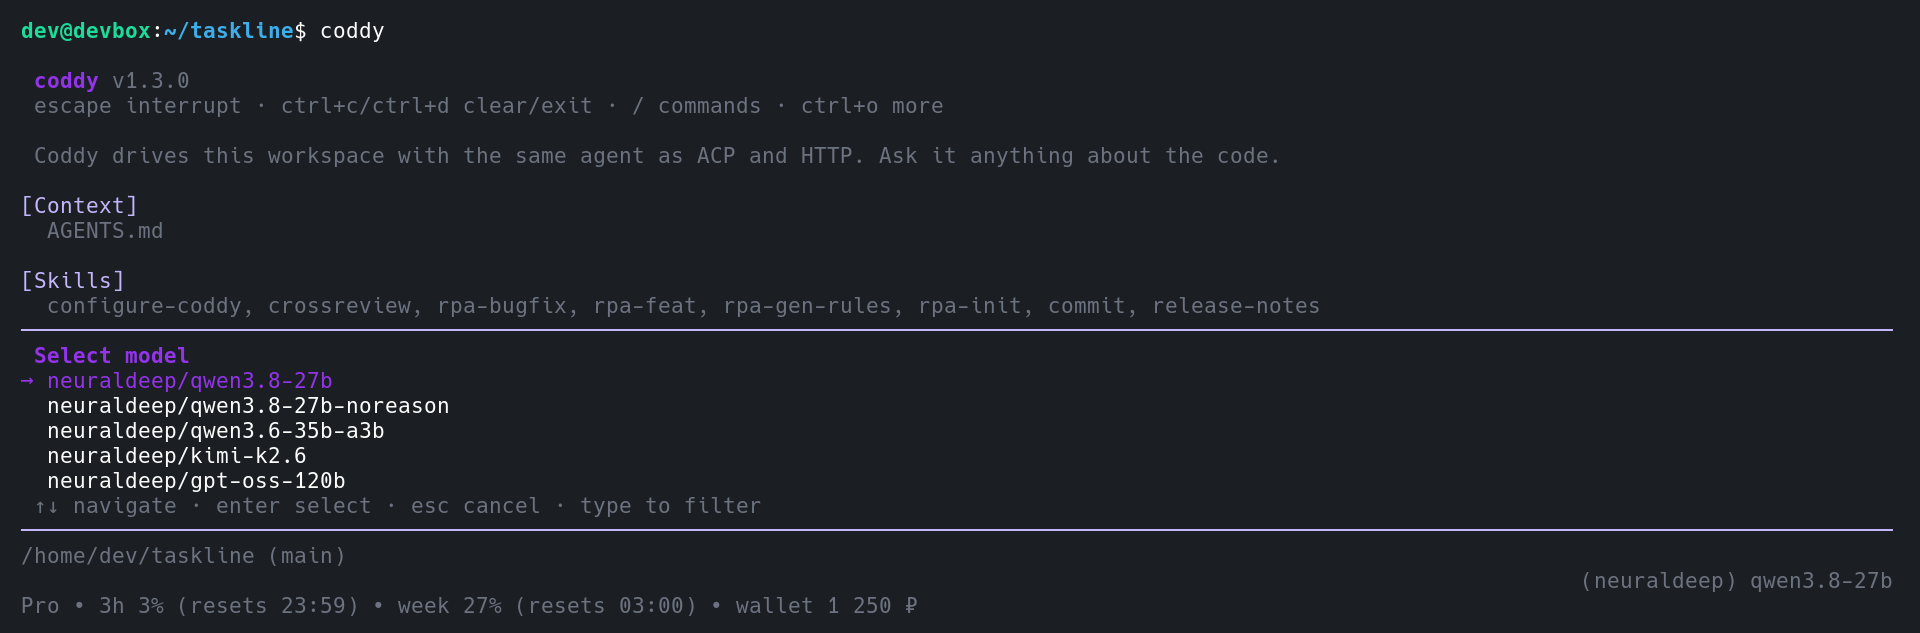
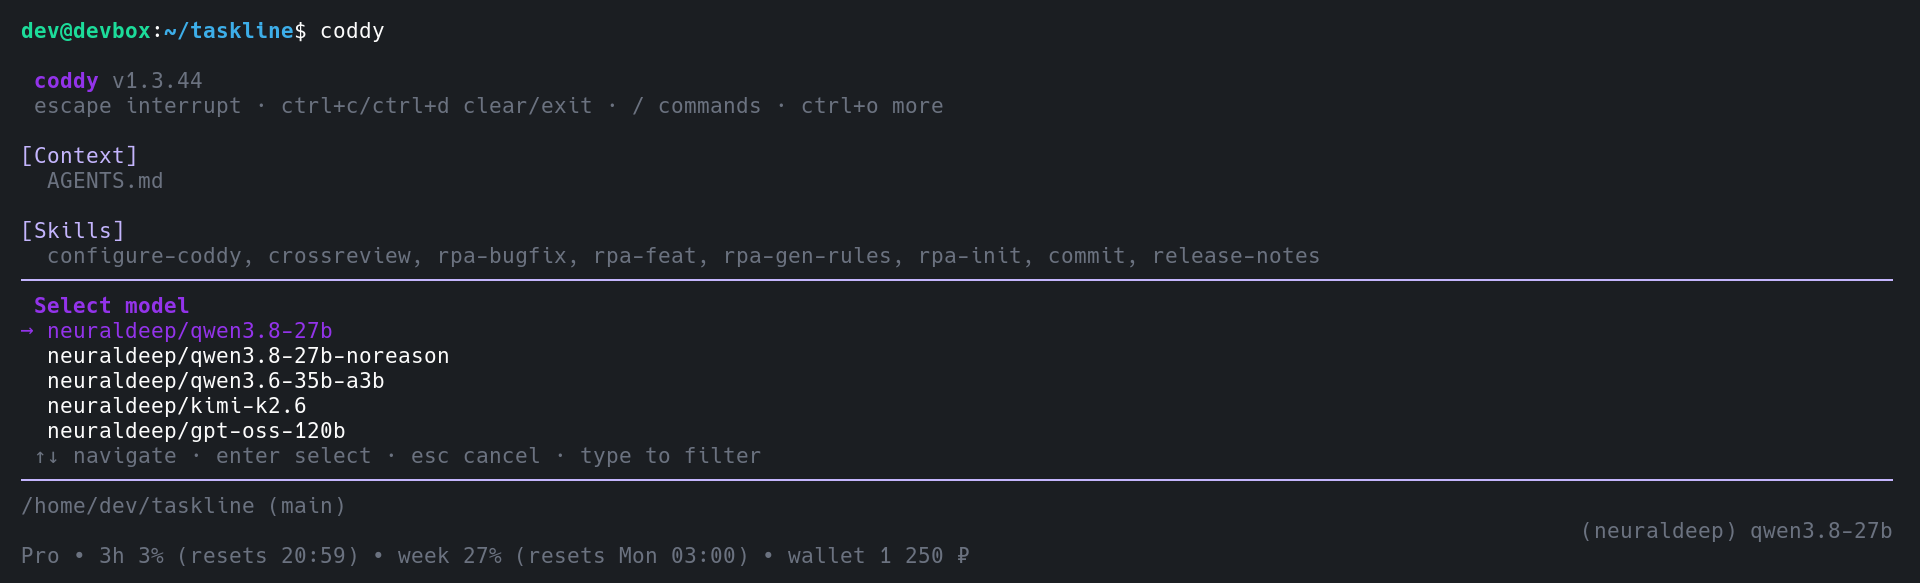
docs: retake the console photos without the removed header line
The three Konsole photos of the console (the start, the model selector, a
finished turn) still showed the dim line about ACP and HTTP; they are taken
again on this build. A fourth one shows the first start of a fresh install
with its header pointing at /login. The README names /login as the quickest
way to a first model.

diff --git a/docs/ru/surfaces/console.md b/docs/ru/surfaces/console.md
@@ -26,6 +26,10 @@ continue: coddy cli --session-id sess_1a2b3c4d  (or: coddy -c)
 
 После свежей установки у Coddy нет провайдера моделей, с которым можно работать. Либо `config.yaml` ещё нет (Homebrew, пакеты Linux, бинарник, распакованный вручную), либо `install.sh` записал пример, где строка `openai` берёт ключ из `OPENAI_API_KEY`. Пока ни одна строка провайдера не может ответить (ни у одной нет ключа в `api_key`, `api_key_command` или своей переменной `NAME_API_KEY`, сохранённого входа, агента `acp` или собственного OpenAI-совместимого `api_base`), шапка сообщает об этом цветом предупреждения и указывает на `/login`. Та же строка появляется после хода, который не удался по этой причине.
 
+![Первый запуск на свежей установке - шапка указывает на /login](../../assets/screenshot-console-login-hint.png)
+
+*Первый запуск без `config.yaml` - строка цветом предупреждения указывает на `/login`, а футер не называет модель.*
+
 `/login` выполняет вход `coddy providers login`, не выходя из консоли.
 
 | Команда | Куда входит | Как |
@@ -377,7 +381,7 @@ coddy hooks untrust <file> [--cwd DIR]
 
 Наборов скриншотов два, и они отвечают на разные вопросы.
 
-`docs/assets/screenshot-console-*.png` снимают работающую консоль в настоящем окне **Konsole** (ширина 1920 пикселей, обрезка по занятым строкам). Это строка запуска и шапка с `[Context]` / `[Skills]` (`screenshot-console-start.png`), селектор моделей по `ctrl+l` (`screenshot-console-models.png`) и завершённый ход с блоком инструмента, блоком рассуждений и счётчиками футера (`screenshot-console-chat.png`). Используйте их в README и на сайте, потому что они показывают то, что пользователь действительно видит в эмуляторе терминала. Они сняты на чистом `CODDY_HOME` с двумя собственными скилами и небольшим проектом с `AGENTS.md`, поэтому шапка перечисляет то, что видит новый пользователь.
+`docs/assets/screenshot-console-*.png` снимают работающую консоль в настоящем окне **Konsole** (ширина 1920 пикселей, обрезка по занятым строкам). Это строка запуска и шапка с `[Context]` / `[Skills]` (`screenshot-console-start.png`), селектор моделей по `ctrl+l` (`screenshot-console-models.png`) и завершённый ход с блоком инструмента, блоком рассуждений и счётчиками футера (`screenshot-console-chat.png`), а также первый запуск свежей установки, где шапка указывает на `/login` (`screenshot-console-login-hint.png`, на пустом `CODDY_HOME`). Используйте их в README и на сайте, потому что они показывают то, что пользователь действительно видит в эмуляторе терминала. Они сняты на чистом `CODDY_HOME` с двумя собственными скилами и небольшим проектом с `AGENTS.md`, поэтому шапка перечисляет то, что видит новый пользователь.
 
 В `docs/assets/cli-tui/` лежат PNG, отрисованные из буфера pyte скриптами `examples/cli/capture_*.py`, по одному на функцию; каждый управляет общим e2e-драйвером с моделью-заглушкой по сценарию. Это эталоны цветов и раскладки ячеек, а не рекламные картинки; перегенерируйте те, у которых изменилось оформление. `examples/cli/capture.py` отрисовывает базовые состояния (запуск, меню слэш-команд, селектор моделей, ход) для сравнения на вашей машине; ни одно из них не коммитится. Четыре состояния использования (`09-usage-footer`, `10-usage-warning`, `12-usage-resuming`, `11-usage-blocked`) дают `examples/cli/capture_usage.py`, который поднимает поддельный хаб `GET /limits` за `CODDY_NEURALDEEP_BASE_URL` и один chat completion, отвечающий для ожидающего хода `429` со сбросом далеко впереди, поэтому настоящий ключ не нужен; хранятся только их PNG. `13-subagent-delegation` так же получается из `examples/cli/capture_subagent.py` - локальный OpenAI-совместимый эндпоинт по сценарию выдаёт вызов `load_skill`, вызов `spawn_agent`, отчёт дочернего агента и ответ родителя, поэтому для снимка не нужны ни провайдер, ни ключ. `18-mention-list` получается из `examples/cli/capture_mentions.py`, который раскладывает файлы этого репозитория пустыми и под git во временной папке с временным домашним каталогом и набирает `@ment` при провайдере, которому не задаётся ни одного вопроса. `session-settings-console-footer-dark` получается из `examples/cli/capture_settings.py` - `/permissions bypass`, затем цепочка `/model --once /reasoning --count=3` с временным домашним каталогом, который подменяет и `HOME`, поэтому шапка перечисляет только встроенные скилы. `login-signed-in-dark-1280` получается из `examples/cli/capture_login.py` - `/login` без аргументов на пустом `CODDY_HOME`, где хаб и базовый адрес API указывают на локальную заглушку, которая отвечает на вход по коду устройства и отдаёт аккаунт, модели тарифа и расход, поэтому не нужны ни хаб, ни ключ.
 

diff --git a/docs/assets/INDEX.md b/docs/assets/INDEX.md
@@ -29,7 +29,7 @@ Screenshots taken as evidence for a pull request do not belong here. Attach them
 Generated by `make docs`. "Used by" lists the files that reference the asset.
 
 <!-- docsgen:assets:start -->
-267 files, 58.0 MB in total.
+268 files, 58.1 MB in total.
 
 ### docs/assets
 
@@ -69,9 +69,10 @@ Generated by `make docs`. "Used by" lists the files that reference the asset.
 | `reasoning-levels-dark-1280.png` | 177 KB | docs/ru/surfaces/web-ui.md, docs/surfaces/web-ui.md |
 | `ref-navbar-narrow-tooltips-accent.png` | 16 KB | DESIGN.md |
 | `scheduler-tool-cards-dark-1280.png` | 197 KB | docs/ru/surfaces/web-ui.md, docs/surfaces/web-ui.md |
-| `screenshot-console-chat.png` | 100 KB | README.md, docs/getting-started/quickstart.md, docs/ru/getting-started/quickstart.md |
-| `screenshot-console-models.png` | 65 KB | docs/ru/surfaces/console.md, docs/surfaces/console.md |
-| `screenshot-console-start.png` | 41 KB | docs/ru/surfaces/console.md, docs/surfaces/console.md |
+| `screenshot-console-chat.png` | 126 KB | README.md, docs/getting-started/quickstart.md, docs/ru/getting-started/quickstart.md |
+| `screenshot-console-login-hint.png` | 40 KB | docs/ru/surfaces/console.md, docs/surfaces/console.md |
+| `screenshot-console-models.png` | 75 KB | docs/ru/surfaces/console.md, docs/surfaces/console.md |
+| `screenshot-console-start.png` | 45 KB | docs/ru/surfaces/console.md, docs/surfaces/console.md |
 | `screenshot-fullhd-chat.png` | 289 KB | docs/getting-started/quickstart.md, docs/ru/getting-started/quickstart.md |
 | `screenshot-fullhd-history.png` | 191 KB | docs/features/sessions.md, docs/ru/features/sessions.md |
 | `screenshot-fullhd-scheduler-job.png` | 214 KB | docs/operate/scheduler.md, docs/ru/operate/scheduler.md |

diff --git a/docs/surfaces/console.md b/docs/surfaces/console.md
@@ -77,6 +77,10 @@ an `acp` agent or an OpenAI-compatible `api_base` of its own - the header says
 so in the warning colour and points at `/login`, and the same line follows a
 turn that failed for that reason.
 
+![The first start on a fresh install: the header points at /login](../assets/screenshot-console-login-hint.png)
+
+*The first start with no `config.yaml`: the line in the warning colour points at `/login`, and the footer names no model.*
+
 `/login` runs the sign-in of `coddy providers login` without leaving the
 console:
 
@@ -974,7 +978,9 @@ in a real **Konsole** window (1920 px wide, cropped to the used rows): the
 launch line and header with `[Context]` / `[Skills]`
 (`screenshot-console-start.png`), the `ctrl+l` model selector
 (`screenshot-console-models.png`), and a finished turn with a tool box, a
-thinking block, and the footer counters (`screenshot-console-chat.png`). Use
+thinking block, and the footer counters (`screenshot-console-chat.png`), plus
+the first start of a fresh install, its header pointing at `/login`
+(`screenshot-console-login-hint.png`, on an empty `CODDY_HOME`). Use
 these in README and on the site: they show what a user actually sees in a
 terminal emulator. They are taken on a clean `CODDY_HOME` with two skills of
 its own and a small project with an `AGENTS.md`, so the header lists what a

diff --git a/README.md b/README.md
@@ -42,7 +42,7 @@ On macOS, Homebrew installs it from Coddy's own tap and `brew upgrade` follows t
 brew install coddy-project/coddy-agent/coddy
 ```
 
-Then give it a model. Put a provider key into `~/.coddy/config.yaml`, or export `OPENAI_API_KEY` and let the defaults pick it up:
+Then give it a model. The quickest way is the console itself: run `coddy` and type `/login`, which signs in to NeuralDeep (`/login codex`, `/login devin` or `/login opencode` for the others) and writes the provider and every model it serves into `~/.coddy/config.yaml` ([Console](docs/surfaces/console.md#signing-in-to-a-provider-login)). Or put a provider key into `~/.coddy/config.yaml`, or export `OPENAI_API_KEY` and let the defaults pick it up:
 
 ```yaml
 providers:
